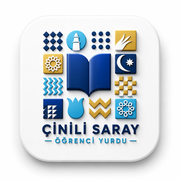
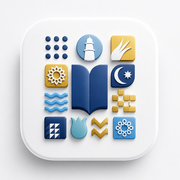
PWA final ikon: 3D cini sembol (v7).
Ana ekran ikonu sembol-only 3D tasarim olarak guncellendi.

diff --git a/templates/includes/pwa_head.html b/templates/includes/pwa_head.html
@@ -4,8 +4,8 @@
 <meta name="apple-mobile-web-app-status-bar-style" content="black-translucent">
 <meta name="apple-mobile-web-app-title" content="{{ panel_mobile_short|default:panel_short }}">
 <meta name="application-name" content="{{ panel_mobile_short|default:panel_short }}">
-<link rel="manifest" href="{% url 'web_manifest' %}?v=6">
-<link rel="apple-touch-icon" sizes="180x180" href="{% url 'pwa_icon_180' %}?v=6">
-<link rel="apple-touch-icon-precomposed" sizes="180x180" href="{% url 'pwa_icon_180' %}?v=6">
-<link rel="icon" type="image/png" sizes="192x192" href="{% url 'pwa_icon_192' %}?v=6">
-<link rel="icon" type="image/png" sizes="512x512" href="{% url 'pwa_icon_512' %}?v=6">
+<link rel="manifest" href="{% url 'web_manifest' %}?v=7">
+<link rel="apple-touch-icon" sizes="180x180" href="{% url 'pwa_icon_180' %}?v=7">
+<link rel="apple-touch-icon-precomposed" sizes="180x180" href="{% url 'pwa_icon_180' %}?v=7">
+<link rel="icon" type="image/png" sizes="192x192" href="{% url 'pwa_icon_192' %}?v=7">
+<link rel="icon" type="image/png" sizes="512x512" href="{% url 'pwa_icon_512' %}?v=7">

diff --git a/templates/base.html b/templates/base.html
@@ -124,7 +124,7 @@
 <script src="{% static 'js/multi-select-filter.js' %}"></script>
 <script src="{% static 'js/bildirim-bell.js' %}"></script>
 <script src="{% static 'js/cs-table-mobile.js' %}?v=5"></script>
-<script src="{% static 'js/pwa-install.js' %}?v=6"></script>
+<script src="{% static 'js/pwa-install.js' %}?v=7"></script>
 {% block extra_js %}{% endblock %}
 </body>
 </html>

diff --git a/templates/yonetim/base.html b/templates/yonetim/base.html
@@ -110,7 +110,7 @@
 <script src="{% static 'js/multi-select-filter.js' %}"></script>
 <script src="{% static 'js/bildirim-bell.js' %}"></script>
 <script src="{% static 'js/cs-table-mobile.js' %}?v=5"></script>
-<script src="{% static 'js/pwa-install.js' %}?v=6"></script>
+<script src="{% static 'js/pwa-install.js' %}?v=7"></script>
 {% block extra_js %}{% endblock %}
 </body>
 </html>

diff --git a/templates/ogretmen/base.html b/templates/ogretmen/base.html
@@ -88,7 +88,7 @@
 {% endif %}
 <script src="{% static 'js/bildirim-bell.js' %}"></script>
 <script src="{% static 'js/cs-table-mobile.js' %}?v=5"></script>
-<script src="{% static 'js/pwa-install.js' %}?v=6"></script>
+<script src="{% static 'js/pwa-install.js' %}?v=7"></script>
 {% block extra_js %}{% endblock %}
 </body>
 </html>

diff --git a/templates/veli/base.html b/templates/veli/base.html
@@ -93,7 +93,7 @@
 {% endif %}
 <script src="{% static 'js/bildirim-bell.js' %}"></script>
 <script src="{% static 'js/cs-table-mobile.js' %}?v=5"></script>
-<script src="{% static 'js/pwa-install.js' %}?v=6"></script>
+<script src="{% static 'js/pwa-install.js' %}?v=7"></script>
 {% block extra_js %}{% endblock %}
 </body>
 </html>

diff --git a/templates/talebe/base.html b/templates/talebe/base.html
@@ -84,7 +84,7 @@
 <script src="{% static 'js/ai-zekasi.js' %}"></script>
 {% endif %}
 <script src="{% static 'js/cs-table-mobile.js' %}?v=5"></script>
-<script src="{% static 'js/pwa-install.js' %}?v=6"></script>
+<script src="{% static 'js/pwa-install.js' %}?v=7"></script>
 {% block extra_js %}{% endblock %}
 </body>
 </html>

diff --git a/templates/registration/login.html b/templates/registration/login.html
@@ -138,6 +138,6 @@
     </div>
 </div>
 <script src="{% static 'js/login-portal.js' %}"></script>
-<script src="{% static 'js/pwa-install.js' %}?v=6"></script>
+<script src="{% static 'js/pwa-install.js' %}?v=7"></script>
 </body>
 </html>

diff --git a/static/sw.js b/static/sw.js
@@ -1,6 +1,6 @@
 /* Çinili Saray Proje — minimal service worker (ana ekrana ekle / yükle) */
 
-const SW_VERSION = "csp-pwa-6";
+const SW_VERSION = "csp-pwa-7";
 
 self.addEventListener("install", (event) => {
     self.skipWaiting();

diff --git a/takip/pwa_views.py b/takip/pwa_views.py
@@ -13,7 +13,7 @@ from config.branding import (
 )
 
 PWA_THEME_COLOR = "#071b3a"
-PWA_VERSION = "v6"
+PWA_VERSION = "v7"
 PWA_ID = f"/?pwa={PWA_VERSION}"
 
 _ICON_FILES = {
